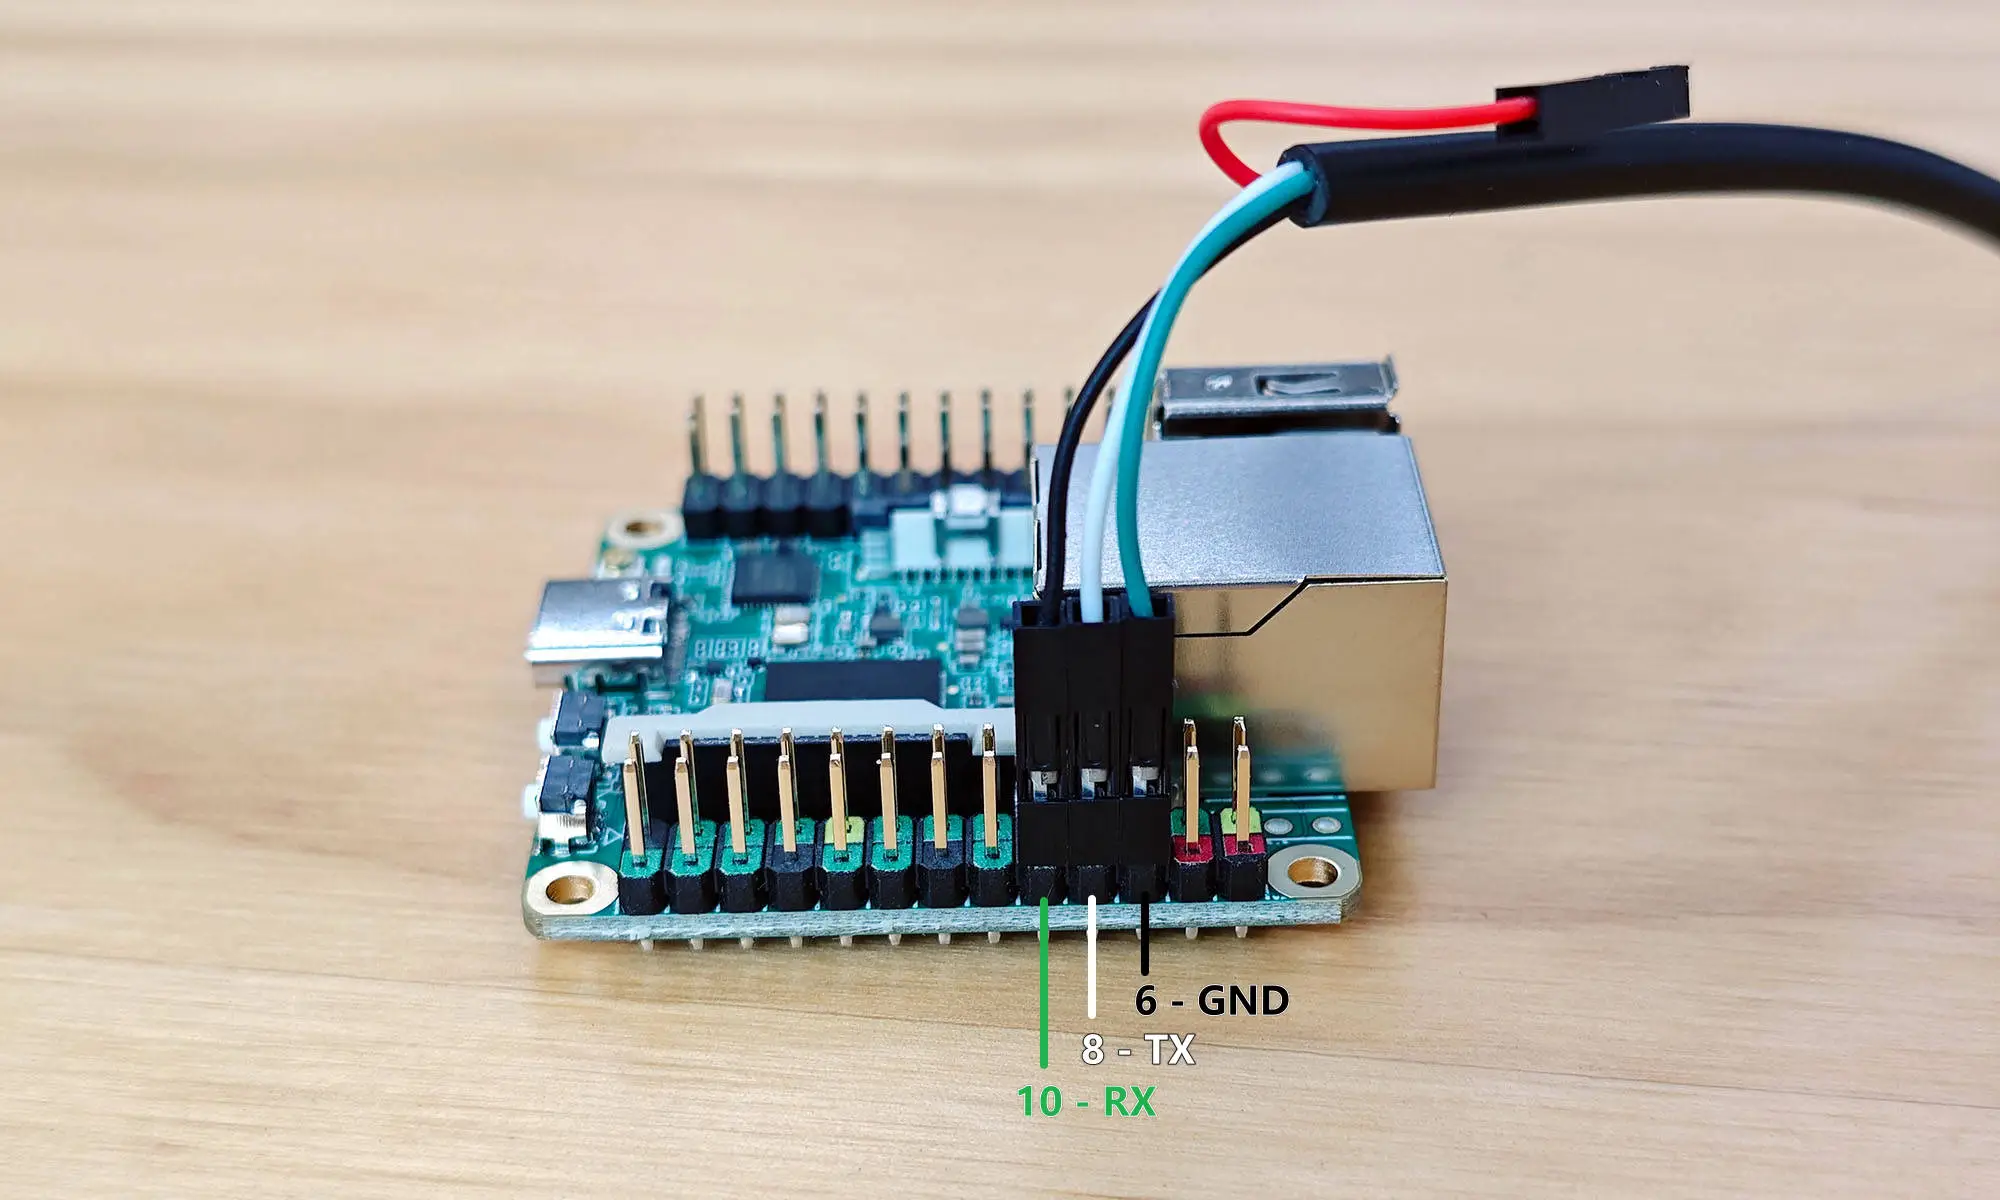
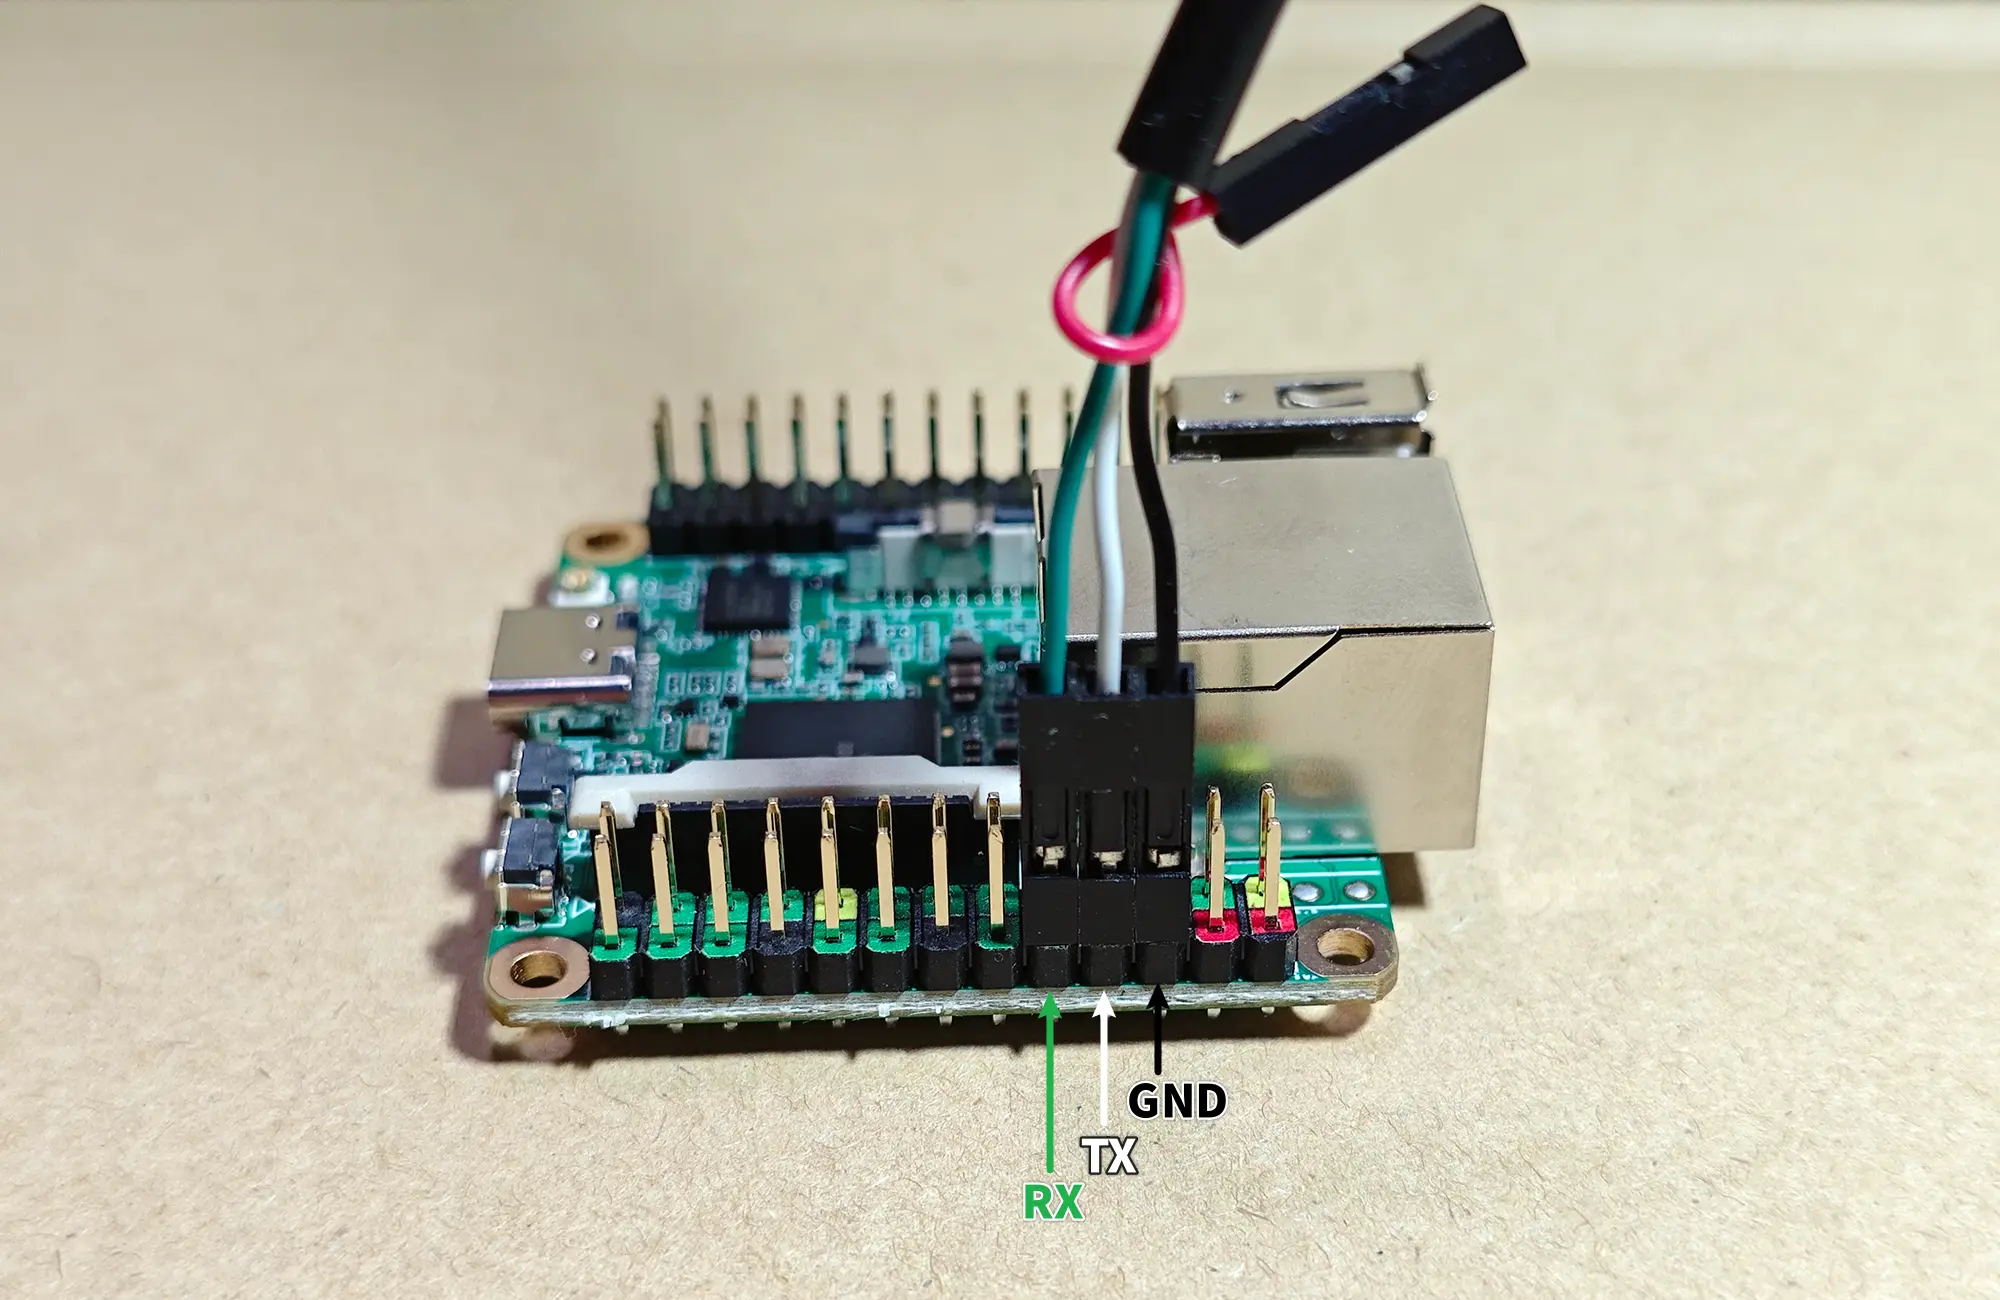
docs: duos fix serial port photo

diff --git a/i18n/zh/docusaurus-plugin-content-docs/current/duo/resources/spilvgl.md b/i18n/zh/docusaurus-plugin-content-docs/current/duo/resources/spilvgl.md
@@ -73,6 +73,8 @@ CONFIG_FB_TFT_ST7789V=y
 
 接下来根据 Duo 的引脚位置参考，进行连线配置
 
+<div className='gpio_style'>
+
 | Duo 物理引脚       | ST7789V  | 
 |:------------------|:--------:|
 | PIN 38: GND       | GND      | 
@@ -82,7 +84,9 @@ CONFIG_FB_TFT_ST7789V=y
 | PIN 21: GP16      | RES      | 
 | PIN 22: GP17      | DC       | 
 | PIN 12: SPI2_CS_X | CS       | 
-| PIN 36: 3.3V(OUT) | BL       | 
+| PIN 36: 3.3V(OUT) | BL       |
+
+</div>
 
 注意该显示屏 BL 引脚是背光使能引脚，高电平背光亮。
 
@@ -177,7 +181,7 @@ chmod +x demo
 
 ### 更换 Demo 为 Benchmark 测试样例
 
-修改 `lv_conf.h` 中的宏定义，将 `LV_USE_DEMO_WIDGETS` 改为 `0，LV_USE_DEMO_BENCHMARK` 改为 1 后重新编译：
+修改 `lv_conf.h` 中的宏定义，将 `LV_USE_DEMO_WIDGETS` 改为 0，`LV_USE_DEMO_BENCHMARK` 改为 1 后重新编译：
 
 ```
 make clean
